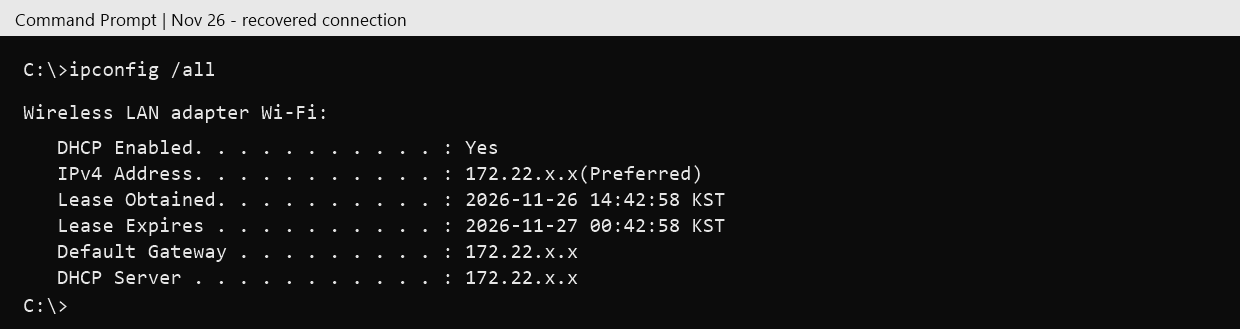
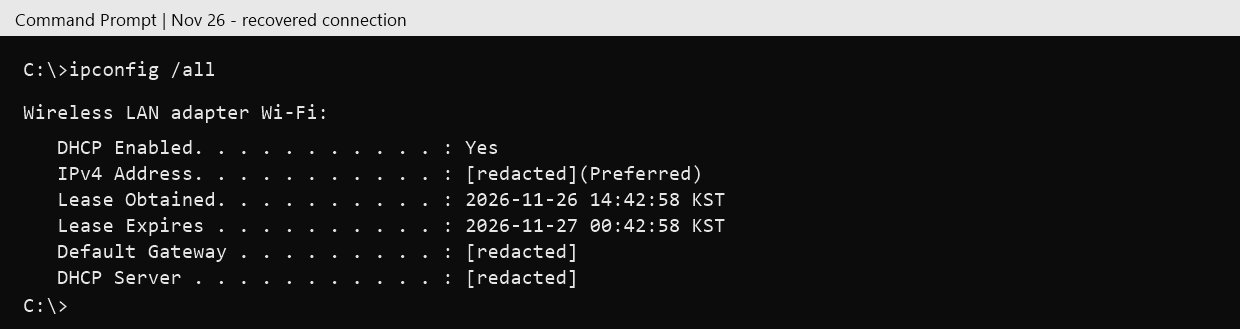
Clarify DHCP capture timings and redact remaining address prefixes

Changed region(s): [[0.3677, 0.8207, 0.4597, 0.8815], [0.3677, 0.7295, 0.4597, 0.7903], [0.3677, 0.4863, 0.4903, 0.5471]]

diff --git a/README.en.md b/README.en.md
@@ -25,13 +25,15 @@ All times are Korea Standard Time (UTC+9). These are my test windows. I didn't m
 
 *Figure 1. Actual packet fields exported with TShark and rendered in a Command Prompt style. Each panel starts its elapsed time at the first packet. The failed panel shows the first access point. The successful panel is from November 3.*
 
+**21.84 seconds elapsed from the first Discover in the right-hand capture (frame 1, 0.000 s) to the first Offer (frame 6, 21.840 s).** Frames 1 and 6 have different DHCP transaction IDs. The first Discover with the Offer's transaction ID is frame 3 (6.544 s), so the gap within that exchange is about **15.30 seconds**. Both intervals come from the laptop's capture. Measuring how long the server took to handle the request would require a server-side record.
+
 ![Redacted ipconfig output showing a ten-hour IP lease obtained at 14:42:58](assets/windows-recovery-evidence.png)
 
-*Figure 2. The November 26 recovery happened after the packet capture ended. This excerpt shows the lease recorded by ipconfig. The authentication timestamp in the table came from Windows WLAN AutoConfig.*
+*Figure 2. The November 26 recovery happened after the packet capture ended. This excerpt shows the lease recorded by ipconfig, with the IP address, gateway, and DHCP server address fully redacted. The authentication timestamp in the table came from Windows WLAN AutoConfig.*
 
 ## Could short leases explain it?
 
-I wondered whether leases were expiring often enough for the campus equipment to have trouble keeping up. On November 3 the lease I saw was 24 hours. After the November 26 recovery it was 10 hours. Shorter leases can increase how often many connected devices renew. A device can usually renew **before** the lease expires and keep the same IP. The 10-hour value alone tells me very little about how busy the server was or how many addresses were available. [RFC 2131 §4.4.5](https://datatracker.ietf.org/doc/html/rfc2131#section-4.4.5)
+I wondered whether leases were expiring often enough for the campus equipment to have trouble keeping up. I saw a 24-hour lease on November 3 and a 10-hour lease after recovery on November 26. These were two successful connections on different days. I did not measure lease activity during the failure, and these values alone do not establish a change in campus policy. Shorter leases can increase how often many connected devices renew. A device can usually renew **before** the lease expires and keep the same IP. The 10-hour value alone tells me very little about how busy the server was or how many addresses were available. [RFC 2131 §4.4.5](https://datatracker.ietf.org/doc/html/rfc2131#section-4.4.5)
 
 I'd check **free addresses in the pool** and **Discover-to-Offer latency** during a failure. I'd also compare the request counts and queue or drop metrics. Even a healthy DHCP server can't answer a request that never gets to it, so I'd match a few exchanges at the laptop, the AP uplink or relay, and the server. That's the evidence I'd need to tell address exhaustion, slow processing, and a forwarding problem apart. [Microsoft's DHCP troubleshooting guidance](https://learn.microsoft.com/en-us/troubleshoot/windows-server/networking/troubleshoot-dhcp-guidance)
 
@@ -52,7 +54,7 @@ ipconfig /all
 To read a saved capture without opening Wireshark's GUI:
 
 ~~~powershell
-tshark -r capture.pcapng -Y dhcp -T fields -e frame.time_relative -e dhcp.option.dhcp
+tshark -r capture.pcapng -Y dhcp -T fields -e frame.time_relative -e dhcp.id -e dhcp.option.dhcp
 ~~~
 
 DHCP types 1, 2, 3, and 5 are Discover, Offer, Request, and ACK. The public figures contain selected fields from the logs.
